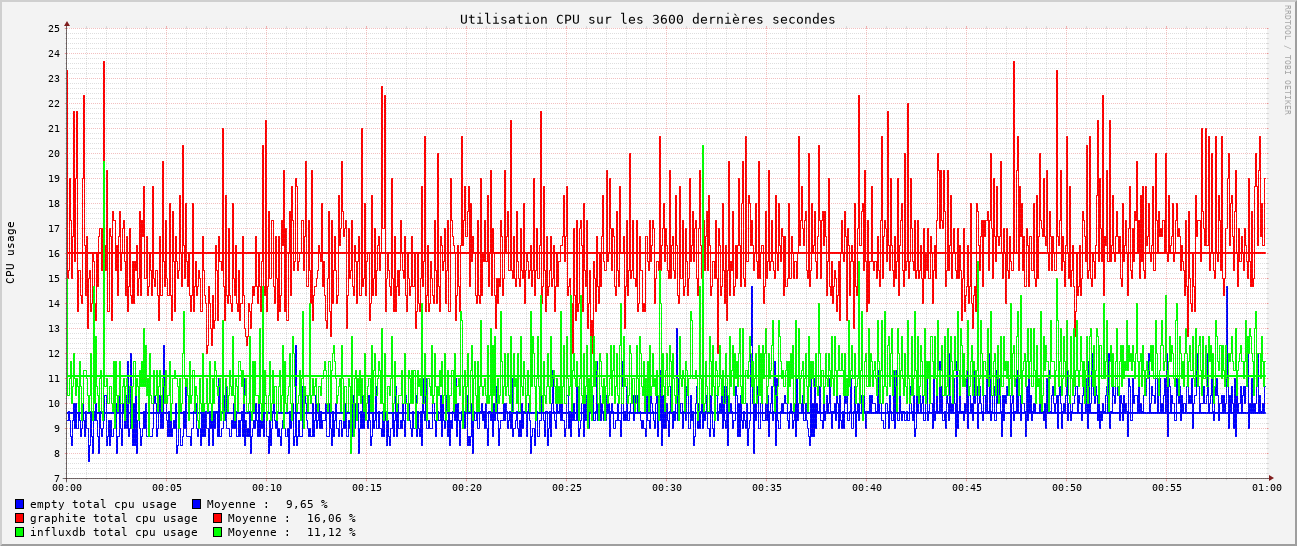
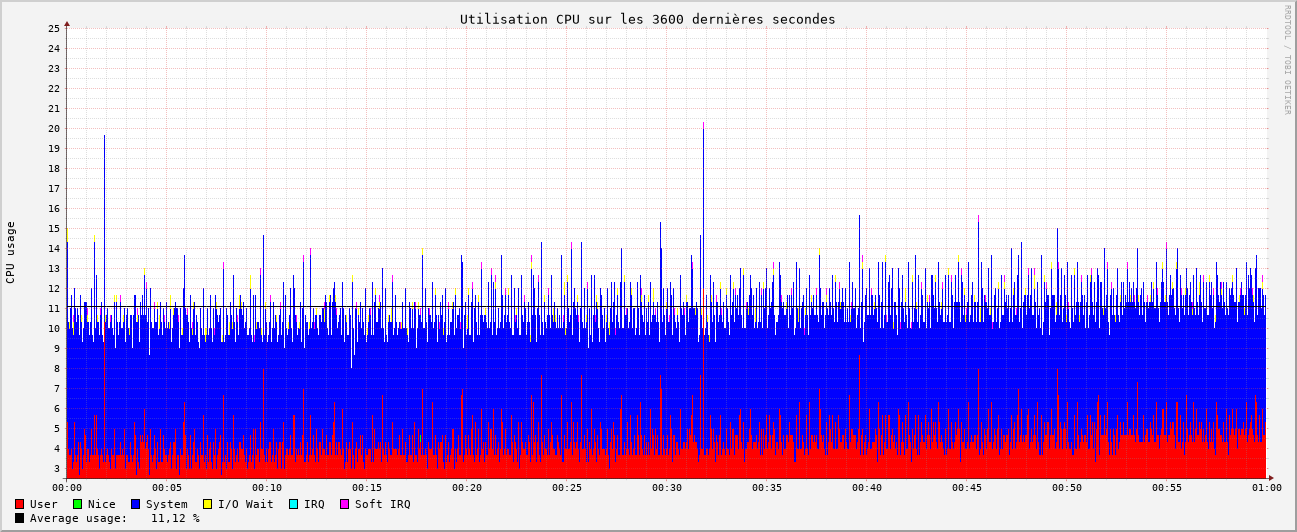
feat: ajout de influxdb dans la ccl

diff --git a/_drafts/monitoring-conclusion.md b/_drafts/monitoring-conclusion.md
@@ -17,38 +17,46 @@ Chaque graphique ci-dessous représente la moyenne des mesures prises toutes les
 
 ### CPU
 
-[![Graphique comparatif de l'utilisation CPU des trois outils.](../images/monitoring-dasboard-benchmark/graph_cpu_usage.png)](../images/monitoring-dasboard-benchmark/graph_cpu_usage.png)
+[![Graphique comparatif de l'utilisation CPU des quatres outils.](../images/monitoring-dasboard-benchmark/nagios_graphite_zabbix_influxdb_cpu_usage.png)](../images/monitoring-dasboard-benchmark/nagios_graphite_zabbix_influxdb_cpu_usage.png)
+[![Graphique comparatif de l'utilisation CPU de nagios graphite et influxdb.](../images/monitoring-dasboard-benchmark/nagios_graphite_influxdb_cpu_usage.png)](../images/monitoring-dasboard-benchmark/nagios_graphite_influxdb_cpu_usage.png)
 
-On observe que **Zabbix** est l'outil le plus gourmand en CPU, et de loin avec une moyenne de **151%** d'utilisation. **Nagios** et **Graphite + Grafana** sont beaucoup moins gourmands avec une moyenne de **23%** d'utilisation CPU pour **Nagios** et **16%** pour **Graphite + Grafana**. Sachant que la mesure témoin donne **10%** d'utilisation sans outils en fonctionnement, cela nous donne une approximation à:
-  - **Zabbix** : **141%** d'utilisation CPU
+On observe que **Zabbix** est l'outil le plus gourmand en CPU, et de loin avec une moyenne de **151%** d'utilisation. **Nagios** et **Graphite + Grafana** sont beaucoup moins gourmands avec une moyenne de **23%** d'utilisation CPU pour **Nagios**, **16%** pour **Graphite + Grafana** et **11,12** pour **Influxdb + Grafana**. Sachant que la mesure témoin donne **9,5%** d'utilisation sans outils en fonctionnement, cela nous donne une approximation à:
+  - **Zabbix** : **141,5%** d'utilisation CPU
   - **Nagios** : **13%** d'utilisation CPU
-  - **Graphite + Grafana** : **6%** d'utilisation CPU
+  - **Graphite + Grafana** : **6,5%** d'utilisation CPU
+  - **Influxdb + Grafana** : **1,5%** d'utilisation CPU
 
 ### RAM
 
-[![Graphique comparatif de l'utilisation mémoire des trois outils.](../images/monitoring-dasboard-benchmark/graph_memory_usage.png)](../images/monitoring-dasboard-benchmark/graph_memory_usage.png)
+[![Graphique comparatif de l'utilisation mémoire des quatres outils.](../images/monitoring-dasboard-benchmark/nagios_graphite_zabbix_influxdb_memory_usage.png)](../images/monitoring-dasboard-benchmark/nagios_graphite_zabbix_influxdb_memory_usage.png)
+[![Graphique comparatif de l'utilisation mémoire de nagios graphite et influxdb.](../images/monitoring-dasboard-benchmark/nagios_graphite_influxdb_memory_usage.png)](../images/monitoring-dasboard-benchmark/nagios_graphite_influxdb_memory_usage.png)
 
-Concernant la RAM, **Zabbix** est encore l'outil le plus gourmand avec une moyenne de **4,17%** d'utilisation RAM. La différence est moins marquée que pour l'utilisation CPU avec **Nagios** à **2,99%** et **Graphite + Grafana** qui a une moyenne de **3,63%** d'utilisation RAM. La mesure témoin donne **2,96%** d'utilisation sans outils en fonctionnement, ce qui nous donne une
+Concernant la RAM, **Zabbix** est encore l'outil le plus gourmand avec une moyenne de **4,17%** d'utilisation RAM. La différence est moins marquée que pour l'utilisation CPU avec **Nagios** à **2,99%**, **Graphite + Grafana** à **3,63%** et **Influxdb + Grafana** à **3,17** d'utilisation RAM. La mesure témoin donne **2,96%** d'utilisation sans outils en fonctionnement, ce qui nous donne une
 approximation à:
   - **Zabbix** : **1,21%** d'utilisation RAM
   - **Nagios** : **0,03%** d'utilisation RAM
   - **Graphite + Grafana** : **0,67%** d'utilisation RAM
+  - **Influxdb + Grafana** : **0,21%** d'utilisation RAM
 
 ## Tableau récapitulatif des observations
 
-| Outil | Compatibilité avec Collectd | Type de configuration | Technologie de Stockage | Technologie de visualisation | Interface | Performances | Système d'alerte | OpenSource |
-|------------ |---------|---------|-------------|-----------| ----------|---|---|---|
-|**Nagios**| Compliqué avec Collectd-Nagios | Complexe, Fichiers de conf | rrd | Nagiosgraph -> rrdgraph | Ancienne, peu intuitive | Très bonnes | Oui, non testé | Partiellement, plugins payants (Icnga -> Fork OpenSource) |
-|**Zabbix**| Compliqué avec Zabbix-Sender | Moyen-Simple, Base de donnée | choix: mysql/postgresql | Zabbix | Moderne, moyennement intuitive | Moyennes | Oui, testé | Oui|
-|**Graphite + Grafana**| Natif | Simple, Base de donnée + fichiers de conf  | whisper | Grafana | Moderne, intuitive | Bonnes | Oui, testé | Oui|
+| Outil | Compatibilité avec Collectd | Type de configuration | Technologie de Stockage | Technologie de visualisation | Interface | Performances | Système d'alerte | OpenSource | Facilité de déploiement* |
+|------------|---------|---------|-------------|-----------|----------|---|---|---|---|
+|**Nagios**| Compliqué avec Collectd-Nagios | Complexe, Fichiers de conf | rrd | Nagiosgraph -> rrdgraph | Ancienne, peu intuitive | Très bonnes | Oui, non testé | Partiellement, plugins payants (Icnga -> Fork OpenSource) | Nombreuses dépendances, pas de rôle ansible récent |
+|**Zabbix**| Compliqué avec Zabbix-Sender | Moyen-Simple, Base de donnée | choix: mysql/postgresql | Zabbix | Moderne, moyennement intuitive | Moyennes | Oui, testé | Oui| Quelques dépendances, rôle ansible à jour |
+|**Graphite + Grafana**| Natif | Simple, Base de donnée + fichiers de conf  | whisper | Grafana | Moderne, intuitive | Bonnes | Oui, testé | Oui| Beaucoup de dépendances, rôle ansible non à jour pour graphite et à jour pour grafana |
+|**Influxdb V1 + Grafana**| Natif pour la V1 | Simple, Base de donnée + fichiers de conf | Influxdb | Grafana | Moderne, intuitive | Très Bonnes | Oui, testé | Oui | Simple, rôle ansible à jour pour grafana, non nécessaire pour influxdb V1 |
 
-## Tableau récapitulatif des points forts et faibles
+*_Facilité de déploiement: automatisable avec ansible, reproductible, nombre de dépendances_
+
+## Tableau récapitulatif des points forts et faibles selon no critères
 
 |Outil | points forts | points faibles |
 |---|---|---|
 | **Nagios** | 🟢 Très Bonnes performances <br> 🟢 Outil Approuvé | 🔴 Configuration complexe <br> 🔴 Interface vieillissante <br> 🔴 N'est pas compatible avec collectd nativement <br> 🔴 Documentation éparpillée <br> 🔴 N'est pas totalement OpenSource |
 | **Zabbix** | 🟢 Interface moderne <br> 🟢  Documentation complète <br> 🟢  Plutôt simple à configurer <br> 🟢  Configuration | 🔴 Performances moyennes <br> 🔴 N'est pas compatible avec collectd nativement <br> 🔴 La configuration et les données sont stockées dans la mème bdd |
-| **Graphite + Grafana** | 🟢 Interface moderne <br> 🟢  Simple à configurer et à prendre en main <br> 🟢  Compatible avec collectd nativement (Permet l'exploration automatique des métriques disponibles) <br> 🟢  Modularité (Découplage stockage des données et génération de graphs) | 🔴 Performances moins bonne que nagios <br> 🔴  Nécessite deux outils pour fonctionner|
+| **Graphite + Grafana** | 🟢 Interface moderne <br> 🟢  Simple à configurer et à prendre en main <br> 🟢  Compatible avec collectd nativement (Permet l'exploration automatique des métriques disponibles) <br> 🟢  Modularité (Découplage stockage des données et génération de graphs) | 🔴 Performances moins bonne que nagios <br> 🔴  Nécessite deux outils pour fonctionner <br> 🔴 Nombreuses dépendances pythons, rend l'installation compliquée|
+| **Influxdb V1 + Grafana** | 🟢 Interface moderne <br> 🟢  Simple à configurer et à prendre en main <br> 🟢  Compatible avec collectd nativement (Permet l'exploration automatique des métriques disponibles) <br> 🟢  Modularité (Découplage stockage des données et génération de graphs) <br> 🟢  Très bonnes performances <br> 🟢  Pas de dépendances|  🔴  Nécessite deux outils pour fonctionner <br> 🔴  Quelques doutes sur la maintenance de la V1 sur le long terme|
 
 Retrouvez les autres articles de cette série (à venir dans les prochains jours) :
 

diff --git a/_drafts/monitoring-influxdb.md b/_drafts/monitoring-influxdb.md
@@ -21,7 +21,7 @@ C’est en cherchant des alternatives à Graphite, compatibles avec Collectd et 
 [![Exemple de dashboard de Grafana](../images/monitoring-dasboard-benchmark/Pres_graphite+grafana.png)](https://www.grafana.com/)
 
 **Description** : InfluxDB est une base de données temporelle (time-series database) conçue en 2013 et optimisée pour la rapidité.  
-Il en existe aujourd'hui trois versions gratuites open source, chacune déclinée en version entreprise.  
+Il en existe aujourd'hui trois versions gratuites open source, chacune ayant sa version entreprise.  
 - **InfluxDB V1**, écrite en **Go**, est compatible nativement avec Collectd (sans intermédiaire) et n’intègre pas d’interface web.  
 - **InfluxDB V2** et **V3**, écrites en **Rust**, proposent une interface web intégrée, mais ne sont pas compatibles avec Collectd sans passer par l’agent **Telegraf**.  
 
@@ -64,21 +64,21 @@ Il est nativement compatible avec Collectd et Grafana, ce qui rend sa configurat
 
 [![Graphique d'utilisation CPU de Influxdb + Grafana sur les 3600 dernières secondes.](../images/monitoring-dasboard-benchmark/influxdb_cpu_usage.png)](../images/monitoring-dasboard-benchmark/influxdb_cpu_usage.png)
 
-Influxdb semble être moins gourmand en CPU que graphite. On observe une utilisation moyenne de **11,12%** pour influxdb contre **16,06%** pour graphite, soit une différence de **4,94%** de moins. De plus, son utilisation est stable dans le temps.
+Influxdb semble être peu gourmand en CPU avec une utilisation moyenne de **11,12%**.
 
 #### RAM
 
 [![Graphique d'utilisation mémoire de Influxdb + Grafana sur les 3600 dernières secondes.](../images/monitoring-dasboard-benchmark/influxdb_memory_usage.png)](../images/monitoring-dasboard-benchmark/influxdb_memory_usage.png)
 
-Influxdb semble être moins gourmand en RAM que graphite. On en observe une utilisation moyenne de **3,17%** pour influxdb contre **3,63%** pour graphite. De plus, on observe un légère meilleure stabilité dans la durée.
+Influxdb semble être peu gourmand en RAM avec une utilisation moyenne de **3,17%**.
 
 ### Conclusion
 
-InfluxDB V1 + Grafana est, à ce jour, la solution de monitoring qui semble la plus adaptée à nos besoins.  
-Le remplacement de Graphite par InfluxDB nous a permis de gagner en performances, en simplicité de modèle et de configuration, tout en réduisant considérablement les dépendances, ce qui simplifie l’installation et la maintenance.  
-
-De plus, cette solution se concentre uniquement sur nos besoins, sans fonctionnalités superflues.  
-La seule limite est de devoir nous contenter d’une version antérieure (bien qu’encore maintenue) d’InfluxDB pour bénéficier d’une compatibilité native avec Collectd. Nous espérons que cette version restera maintenue dans les années à venir.
+InfluxDB V1 a plusieurs avantages.
+C'est une solution qui se concentre uniquement sur nos besoins, sans fonctionnalités superflues.  
+Il n'y a pas de dépendances externes puisque influxdb se résume à un binaire. 
+Ses performances sont très bonnes que ce soit en utilisation CPU et RAM.
+La seule limite est que seule une version antérieure (bien qu’encore maintenue) d’InfluxDB est compatible nativement avec Collectd. Nous espérons que cette version restera maintenue dans les années à venir.
 
 ---
 
